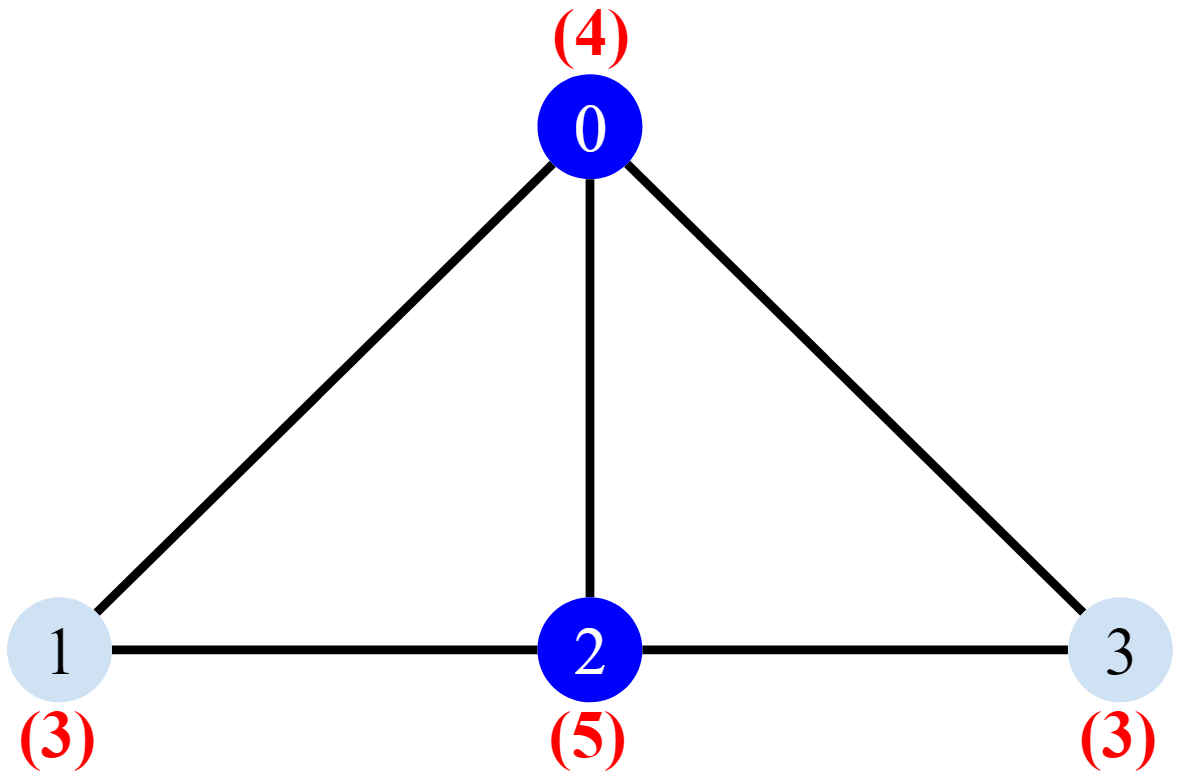
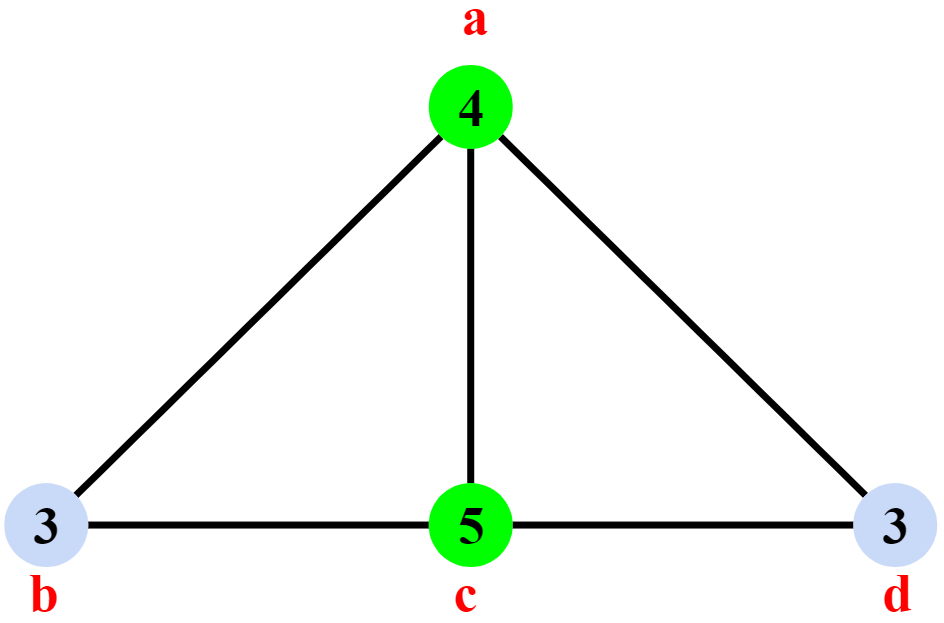
FIX total weight calculation, node names, more examples

diff --git a/MinimumWeightedVertexCover.java b/MinimumWeightedVertexCover.java
@@ -1,41 +1,48 @@
 import java.util.*;
 
 public class MinimumWeightedVertexCover{
-	public static void findMinimumWeightedVertexCoverApprox(ArrayList<Edge> graph,  int[] weights){
+	public static void findMinimumWeightedVertexCoverApprox(ArrayList<Edge> graph, int[] weights){
+		//Build String array of integer vertex names if no string names are provided
+		String[] integerNames = new String[weights.length];
+		for(int i=0; i<weights.length; i++){
+			integerNames[i] = i+"";
+		}
+		findMinimumWeightedVertexCoverApprox(graph, weights, integerNames);
+	}
+
+	public static void findMinimumWeightedVertexCoverApprox(ArrayList<Edge> graph, int[] weights, String[] vertexNames){
 		int[] remainingWeights = Arrays.copyOf(weights, weights.length);
 
-		ArrayList<Integer> vertexCoverNodes = new ArrayList<Integer>();
+		ArrayList<String> vertexCoverNodes = new ArrayList<String>();
 		int totalWeight = 0;
 
 		for(Edge edge : graph){
 			int fromVertex = edge.fromVertex;
 			int toVertex = edge.toVertex;
-			if(remainingWeights[fromVertex]==0 || remainingWeights[toVertex]==0){		//skip edges where either vertex is tight
-				// System.out.println("skipped "+edge);
+			if(remainingWeights[fromVertex]==0 || remainingWeights[toVertex]==0){		//skip edges if either vertex is already tight
 				continue;
 			}
 
-			int smallerWeight = 0;
-			if(remainingWeights[fromVertex] < remainingWeights[toVertex]){		//fromVertex is smaller
-				smallerWeight = remainingWeights[fromVertex];
+			if(remainingWeights[fromVertex] < remainingWeights[toVertex]){		//fromVertex weight is smaller
+				int smallerWeight = remainingWeights[fromVertex];
 				edge.pricePaid = smallerWeight;
-				remainingWeights[fromVertex] = 0;
+				remainingWeights[fromVertex] = 0;	//1 vertex becomes tight (greedy)
 				remainingWeights[toVertex] -= smallerWeight;
-				totalWeight += smallerWeight;
-				vertexCoverNodes.add(fromVertex);
+				totalWeight += weights[fromVertex];
+				vertexCoverNodes.add(vertexNames[fromVertex]);
 			}
-			else{		//toVertex is smaller or they're equal
-				smallerWeight = remainingWeights[toVertex];
+			else{		//toVertex weight is smaller or they're equal
+				int smallerWeight = remainingWeights[toVertex];
 				edge.pricePaid = smallerWeight;
-				remainingWeights[toVertex] = 0;
+				remainingWeights[toVertex] = 0;		//1 vertex becomes tight (greedy)
 				remainingWeights[fromVertex] -= smallerWeight;
-				totalWeight += smallerWeight;
-				vertexCoverNodes.add(toVertex);
+				totalWeight += weights[toVertex];
+				vertexCoverNodes.add(vertexNames[toVertex]);
 			}
-			System.out.println("Chose edge "+edge);
+			System.out.println("Chose Edge "+edge);
 		}
 
-		System.out.println("\nVertex Cover Nodes: "+vertexCoverNodes);
+		System.out.println("\nVertex Cover: "+vertexCoverNodes);
 		System.out.println("Total Weight: "+totalWeight);
 	}
 
@@ -44,21 +51,61 @@ public class MinimumWeightedVertexCover{
 	public static void main(String args[]){
 		System.out.println("Graph 1");
 		int[] weights1 = {4,3,5,3};
+		String[] vertexNames1 = {"a", "b", "c", "d"};
 		ArrayList<Edge> graph1 = new ArrayList<Edge>();
-		graph1.add(new Edge(0,1));
-		graph1.add(new Edge(0,3));
-		graph1.add(new Edge(0,2));
-		graph1.add(new Edge(2,3));
-		graph1.add(new Edge(2,1));
-		MinimumWeightedVertexCover.findMinimumWeightedVertexCoverApprox(graph1, weights1);
+		graph1.add(new Edge(0,1, vertexNames1));
+		graph1.add(new Edge(0,3, vertexNames1));
+		graph1.add(new Edge(0,2, vertexNames1));
+		graph1.add(new Edge(2,3, vertexNames1));
+		graph1.add(new Edge(2,1, vertexNames1));
+		MinimumWeightedVertexCover.findMinimumWeightedVertexCoverApprox(graph1, weights1, vertexNames1);
+		//Optimal = a, c (Total weight = 4+5 = 9)
+
+		System.out.println("\n\nGraph 2");
+		int[] weights2 = {2,4,9,2};
+		String[] vertexNames2 = {"a", "b", "c", "d"};
+		ArrayList<Edge> graph2 = new ArrayList<Edge>();
+		graph2.add(new Edge(0,2, vertexNames2));
+		graph2.add(new Edge(0,1, vertexNames2));
+		graph2.add(new Edge(0,3, vertexNames2));
+		graph2.add(new Edge(2,3, vertexNames2));
+		graph2.add(new Edge(1,2, vertexNames2));
+		MinimumWeightedVertexCover.findMinimumWeightedVertexCoverApprox(graph2, weights2, vertexNames2);
+		//Optimal Found!
+
+		System.out.println("\n\nGraph 3");
+		int[] weights3 = {2,3,4,5,7,9};
+		String[] vertexNames3 = {"a", "b", "c", "d", "e", "f"};
+		ArrayList<Edge> graph3 = new ArrayList<Edge>();
+		graph3.add(new Edge(0,5, vertexNames3));
+		graph3.add(new Edge(1,2, vertexNames3));
+		graph3.add(new Edge(2,4, vertexNames3));
+		graph3.add(new Edge(2,3, vertexNames3));
+		graph3.add(new Edge(0,1, vertexNames3));
+		graph3.add(new Edge(4,5, vertexNames3));
+		graph3.add(new Edge(1,5, vertexNames3));
+		MinimumWeightedVertexCover.findMinimumWeightedVertexCoverApprox(graph3, weights3, vertexNames3);
+		//Optimal = a, c, f (Total weight = 2+4+9 = 16)
+		
+
+		System.out.println("\n\nGraph 4 (without vertex names)");
+		ArrayList<Edge> graph4WithoutNames = new ArrayList<Edge>();
+		int[] weights4WithoutNames = {10, 1, 1, 1};
+		graph4WithoutNames.add(new Edge(0,1));
+		graph4WithoutNames.add(new Edge(0,2));
+		graph4WithoutNames.add(new Edge(0,3));
+		MinimumWeightedVertexCover.findMinimumWeightedVertexCoverApprox(graph4WithoutNames, weights4WithoutNames);
+		// Optimal Found!
 
 		System.out.println("\n\nGraph 4");
-		int[] weights4 = {100, 1, 1, 1};
 		ArrayList<Edge> graph4 = new ArrayList<Edge>();
-		graph4.add(new Edge(0,1));
-		graph4.add(new Edge(0,2));
-		graph4.add(new Edge(0,3));
-		MinimumWeightedVertexCover.findMinimumWeightedVertexCoverApprox(graph4, weights4);
+		int[] weights4 = {10, 1, 1, 1};
+		String[] vertexNames4 = {"a", "b", "c", "d"};
+		graph4.add(new Edge(0,1, vertexNames4));
+		graph4.add(new Edge(0,2, vertexNames4));
+		graph4.add(new Edge(0,3, vertexNames4));
+		MinimumWeightedVertexCover.findMinimumWeightedVertexCoverApprox(graph4, weights4, vertexNames4);
+		// Optimal Found!
 	}
 }
 
@@ -67,13 +114,28 @@ class Edge{
 	public int toVertex;
 	public int pricePaid = 0;
 
+	private String[] vertexNames;
+
 	public Edge(int fromVertex, int toVertex){
 		this.fromVertex=fromVertex;
 		this.toVertex=toVertex;
 	}
+
+	public Edge(int fromVertex, int toVertex, String[] vertexNames){
+		this.fromVertex=fromVertex;
+		this.toVertex=toVertex;
+		this.vertexNames=vertexNames;
+	}
 	
 	@Override
 	public String toString(){
+		if(vertexNames !=null){
+			return "("+vertexNames[fromVertex]+", "+vertexNames[toVertex]+") [Price paid="+pricePaid+"]";
+		}
+		return toStringAsInt();
+	}
+
+	public String toStringAsInt(){
 		return "("+fromVertex+", "+toVertex+") [Price paid="+pricePaid+"]";
 	}
 }
